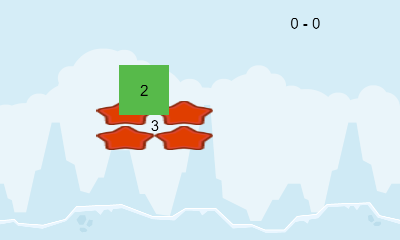
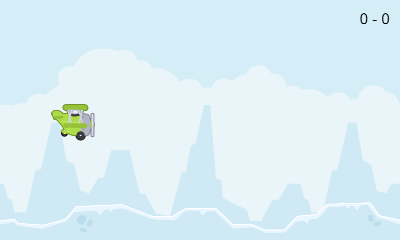
moveTo

Changed region(s): [[0.12, 0.2625, 0.54, 0.6417], [0.9, 0.0583, 0.99, 0.1167], [0.72, 0.0583, 0.81, 0.1167]]

diff --git a/loop/engine/Rule.js b/loop/engine/Rule.js
@@ -6,6 +6,8 @@ class Rule {
         actor.scriptList.forEach((script, i) => { // add scripts to expression
             expression += this.parseNodeList(script.nodeList).replace(/Me./g, this.actorName + ".").slice(1, -1) + ";";
         });
+      //  expression = "plane.x = plane.x + 100 * Game.deltaTime * ( 100-plane.x) / distance([plane.x,plane.y],[100,100])";
+        console.log(expression);
         this.code = math.compile(expression);
     }
 
@@ -25,23 +27,43 @@ class Rule {
         var nodeExpression = "";
         switch (node.type) {
             case "Edit": nodeExpression = this.addEdit(node.parameters); break;
+            case "Move": nodeExpression = this.addMove(node.parameters); break;
+            case "Move_To": nodeExpression = this.addMoveTo(node.parameters); break;
             case "Compare": nodeExpression = this.addCompare(node.parameters, node.nodeListTrue, node.nodeListFalse); break;
+            case "Check": nodeExpression = this.addCheck(node.parameters, node.nodeListTrue, node.nodeListFalse); break;
         }
         return (nodeExpression);
     }
-
-    addEdit(node) { // node parameters
-        var position = node.property.indexOf(".") + 1;
-        var property = node.property.substring(position);
+    // Actions 
+    addEdit(params) {
+        var position = params.property.indexOf(".") + 1;
+        var property = params.property.substring(position);
         var specialProperties = ["color", "backgroundColor", "fill", "image", "font", "style", "align"];
-        if (specialProperties.includes(property)) node.value = "'" + node.value + "'"; // to add quotes
-        return (node.property + "=" + node.value);
+        if (specialProperties.includes(property)) params.value = "'" + params.value + "'"; // to add quotes
+        return (params.property + "=" + params.value);
     }
 
-    addCompare(node, nodeListTrue, nodeListFalse) {
+    addMove(params) {
+        var x = "Me.x = Me.x + " + params.speed + " * Game.deltaTime * cos(" + params.angle + " deg)";
+        var y = "Me.y = Me.y + " + params.speed + " * Game.deltaTime * sin(" + params.angle + " deg)";
+        return (x + " ; " + y);
+    }
+
+    addMoveTo(params) {
+        var x = "Me.x = Me.x + " + params.speed + " * Game.deltaTime * (" + params.x + "- Me.x) / distance([Me.x,Me.y],[" + params.x + "," + params.y + "])";
+        var y = "Me.y = Me.y + " + params.speed + " * Game.deltaTime * (" + params.y + "- Me.y) / distance([Me.x,Me.y],[" + params.x + "," + params.y + "])";
+        return (x + " ; " + y);
+    }
+    // Conditions
+    addCompare(params, nodeListTrue, nodeListFalse) {
         var dictionary = { "Less": "<", "Less Equal": "<=", "Equal": "==", "Greater Equal": ">=", "Greater": ">", "Different": "!=" };
-        node.operation = dictionary[node.operation];
-        return ("[" + node.value_1 + " " + node.operation + " " + node.value_2 + " ? " +
+        params.operation = dictionary[params.operation];
+        return ("[" + params.value_1 + " " + params.operation + " " + params.value_2 + " ? " +
+            this.parseNodeList(nodeListTrue) + " : " + this.parseNodeList(nodeListFalse) + "]");
+    }
+
+    addCheck(params, nodeListTrue, nodeListFalse) {
+        return ("[" + params.property + " ? " +
             this.parseNodeList(nodeListTrue) + " : " + this.parseNodeList(nodeListFalse) + "]");
     }
 }

diff --git a/loop/engine/Engine.js b/loop/engine/Engine.js
@@ -2,7 +2,7 @@ class Engine {
 
     constructor(gameModel) {
         this.ffps = 100;
-        this.fps = 30;
+        this.fps = 60;
         this.currentTime=0.0;
         this.accumulator = 0.0;
         this.dt = 1000 / this.ffps;
@@ -11,15 +11,16 @@ class Engine {
 
         this.gameObjects = this.createGameObjects(gameModel);
         this.scope = this.createScope(this.gameObjects, gameModel.allProperties);
+        console.log(this.scope);
         this.render = new Render(this);
         this.logic = new Logic(this);
-       this.gameLoop();
+        this.gameLoop();
     } ;
 
     gameLoop(newTime) {
         //var newTime = Date.now();
         //setTimeout(this.gameLoop.bind(this),1000/this.fps);
-        //setTimeout(() => {window.requestAnimationFrame(this.gameLoop.bind(this));}, 1000 / this.fps);
+       // setTimeout(() => {window.requestAnimationFrame(this.gameLoop.bind(this));}, 1000 / this.fps);
         window.requestAnimationFrame(this.gameLoop.bind(this));
         if (this.currentTime) {
             this.frameTime = newTime - this.currentTime;

diff --git a/loop/engine/GameObject.js b/loop/engine/GameObject.js
@@ -2,6 +2,9 @@ class GameObject {
 
     constructor(actor) {
         this.actor = actor;
+        for (let key in actor.newProperties) { // add new properties
+            this[key] = actor[key];
+        }
         this.sleeping = actor.sleeping;
         this.container = new Container(actor);
         if (actor.scriptList.length > 0) this.rule = new Rule(actor);
